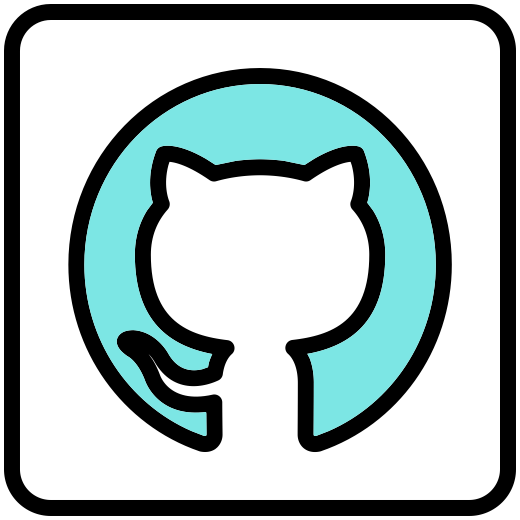
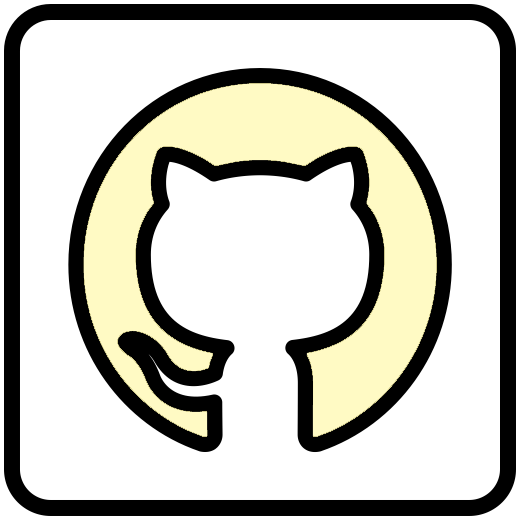
color edits

Changed region(s): [[0.1538, 0.1538, 0.8615, 0.8615]]

diff --git a/main.css b/main.css
@@ -11,7 +11,8 @@ body {
     min-height: 100%;
     width: 100%;
     font-family: 'Josefin Slab', serif;
-    background-color: #F7F0F0;
+    /*background-color: #F7F0F0;*/
+    background: #fffac4;
     font-size: 16px;
     padding: 0;
     margin: 0;
@@ -97,13 +98,13 @@ header {
 
 #globalnav a:active,
 #globalnav a:hover {
-    color: #7CE6E4;
+    color: #49fee3;
 }
 
 footer {
     display: flex;
     justify-content: space-around;
-    background: #E40066;
+    background: #fe4864;
     color: white;
     width: 100%;
     padding-top: 1em;
@@ -166,15 +167,43 @@ main {
     margin: 0 auto;
 }
 
-#profilepic img {
+#profilepic {
     width: 25em;
     height: 25em;
     border-radius: 100%;
     margin: 1em;
     /*margin-left: 0;*/
-    border: 10px solid #7CE6E4;
+    border: 10px solid #49fee3;
     /*transform: rotate(-25deg);*/
+    /*test*/
+    /*background: url('pics/profilepic.jpg');
+    background-position: center;
+    background-repeat: no-repeat;
+    background-size: contain;*/
+    overflow: hidden;
+    position: relative;
 }
+
+.img {
+    position: absolute;
+    top: 0;
+    margin: 0 auto;
+    height: 100%;
+    width: 100%;
+    background: url('pics/profilepic.jpg');
+    background-position: center;
+    background-repeat: no-repeat;
+    background-size: 100%;
+}
+
+
+/*#profilepic {
+    -webkit-border-image: -webkit-gradient(linear, 100% 0, 0 0, from(#49fee3), to(rgba(254, 72, 100, 0.5))) 1 100%;
+    -webkit-border-image: -webkit-linear-gradient(right, #49fee3, rgba(254, 72, 100, 0.5)) 1 100%;
+    -moz-border-image: -moz-linear-gradient(right, #49fee3, rgba(254, 72, 100, 0.5)) 1 100%;
+    -o-border-image: -o-linear-gradient(right, #49fee3, rgba(254, 72, 100, 0.5)) 1 100%;
+    border-image: linear-gradient(to right, #49fee3, rgba(254, 72, 100, 0.5)) 1 100%;
+}*/
 
 .aboutSec {
     display: flex;
@@ -182,7 +211,7 @@ main {
     justify-content: center;
     align-items: center;
     width: 100vw;
-    max-width: 960px;
+    max-width: 1000px;
     /*background: #7CE6E4;*/
     z-index: 8;
     margin-top: 3em;
@@ -212,7 +241,7 @@ main {
 #triangle-bottomleft {
     width: 0;
     height: 0;
-    border-bottom: 62.5em solid #7CE6E4;
+    border-bottom: 62.5em solid #49fee3;
     border-right: 62.5em solid transparent;
     z-index: 2;
 }
@@ -233,7 +262,7 @@ main {
 }
 
 .details a:hover {
-    color: #7CE6E4;
+    color: #49fee3;
 }
 
 .section2,
@@ -255,11 +284,17 @@ main {
 }
 
 .section1 {
-    border: 10px solid #F7F0F0;
+    border: 10px solid #fffac4;
 }
 
 .section2 {
-    border: 10px solid #7CE6E4;
+    border: 10px solid #49fee3;
+    /*border: 10px solid;
+    -webkit-border-image: -webkit-gradient(linear, 100% 0, 0 0, from(#49fee3), to(rgba(254, 72, 100, 0.5))) 1 100%;
+    -webkit-border-image: -webkit-linear-gradient(right, #49fee3, rgba(254, 72, 100, 0.5)) 1 100%;
+    -moz-border-image: -moz-linear-gradient(right, #49fee3, rgba(254, 72, 100, 0.5)) 1 100%;
+    -o-border-image: -o-linear-gradient(right, #49fee3, rgba(254, 72, 100, 0.5)) 1 100%;
+    border-image: linear-gradient(to right, #49fee3, rgba(254, 72, 100, 0.5)) 1 100%;*/
 }
 
 .background {
@@ -272,10 +307,10 @@ main {
     left: -25em;
     width: 200em;
     height: 70em;
-    background: -webkit-linear-gradient(left, #E40066, #F7F0F0);
-    background: -o-linear-gradient(right, #E40066, #F7F0F0);
-    background: -moz-linear-gradient(right, #E40066, #F7F0F0);
-    background: linear-gradient(to right, #E40066, #F7F0F0);
+    background: -webkit-linear-gradient(left, #fe4864, #fffac4);
+    background: -o-linear-gradient(right, #fe4864, #fffac4);
+    background: -moz-linear-gradient(right, #fe4864, #fffac4);
+    background: linear-gradient(to right, #fe4864, #fffac4);
     transform: rotate(45deg);
 }
 
@@ -303,7 +338,7 @@ main {
 }
 
 .email:hover {
-    color: #7CE6E4;
+    color: #49fee3;
 }
 
 
@@ -340,14 +375,14 @@ main {
 .offcanvas a:focus {
     font-size: 1.5em;
     /*color: rgba(1, 135, 154, 0.9);*/
-    color: #7CE6E4;
+    color: #49fee3;
 }
 
 #close:hover,
 #close2:hover {
     font-size: 3em;
     /*color: mediumvioletred;*/
-    color: #7CE6E4;
+    color: #49fee3;
 }
 
 .sidenav .closebtn,
@@ -372,7 +407,8 @@ main {
     z-index: 10;
 }
 
-.cls-1 {
+
+/*.cls-1 {
     font-size: 36px;
     letter-spacing: -0.16em;
 }
@@ -447,7 +483,7 @@ main {
 .cls-12 {
     font-size: 20px;
     letter-spacing: -0.54em;
-}
+}*/
 
 @media screen and (max-height: 450px) {
     .sidenav {
@@ -470,8 +506,13 @@ main {
 @media screen and (min-width: 850px) {
     .aboutSec {
         flex-direction: row;
+        width: 100vw;
     }
     .section2 {
+        /*margin-right: 0;*/
+        width: 50%;
+    }
+    #profilepic {
         margin-left: 0;
     }
 }

diff --git a/index.html b/index.html
@@ -49,7 +49,7 @@
                     
 
 
-                        <style>.cls-1{isolation:isolate;}.cls-2{fill:#7ce6e4;}</style>
+                        <style>.cls-1{isolation:isolate;}.cls-2{fill:#49fee3;}</style>
                         </defs>
                         
                         <g class="cls-1"><path d="M9,40.49a4.36,4.36,0,0,1-3.77,1.84,4.89,4.89,0,0,1-2.83-.91A7.86,7.86,0,0,1,.09,38.8L.5,38.3a7.25,7.25,0,0,0,2.12,2.46,4.45,4.45,0,0,0,2.59.84A3.84,3.84,0,0,0,8.56,40a8.16,8.16,0,0,0,1.15-4.73V17.88H2v-.72h8.33V35.25A8.91,8.91,0,0,1,9,40.49Z" transform="translate(-0.09 -13.81)"/></g>
@@ -93,8 +93,7 @@
                         <h1>To make the story short:</h1>
                         <p>I have a burning passion for the web and how we can continue making it better every day. I enjoy turning complex problems into simple, beautiful and intuitive interface designs with a focus on writing clean and efficient code.</p>
 
-                        <p>My future goal is to be involved in projects that I can be proud of, join an amazing team and advance my development skills. If you're interested in helping me make this happen, <a href="mailto:joanna.hogberg@gmail.com" class="email"
-                                title="Send me an email">let's get in touch.</a></p>
+                        <p>My future goal is to be involved in projects that I can be proud of, join an amazing team and advance my development skills. If you're interested in helping me make this happen, <a href="#contact" class="email" title="Go to contact">let's get in touch.</a></p>
                     </section>
                 </div>
 
@@ -104,7 +103,10 @@
                 <div class="aboutSec">
 
                     <div id="profilepic">
-                        <img src="pics/profilepic.jpg" alt="profilepicture">
+                        <figure class="img">
+
+                        </figure>
+                        <!--<img src="pics/profilepic.jpg" alt="profilepicture">-->
                     </div>
                     <section id="about" class="section2 ">
                         <h2>A little bit about me...</h2>
